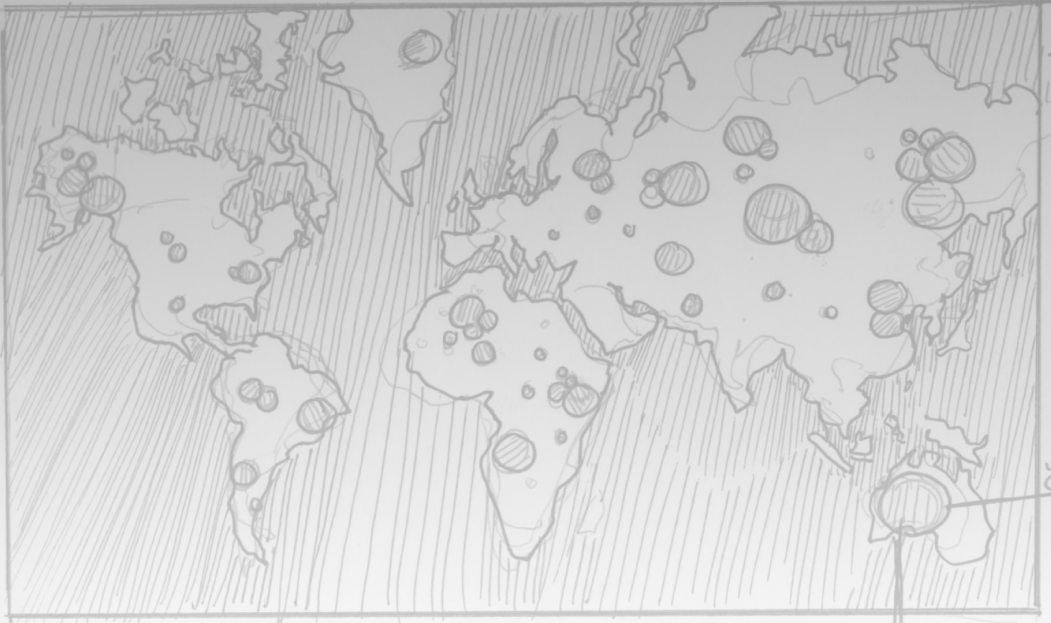
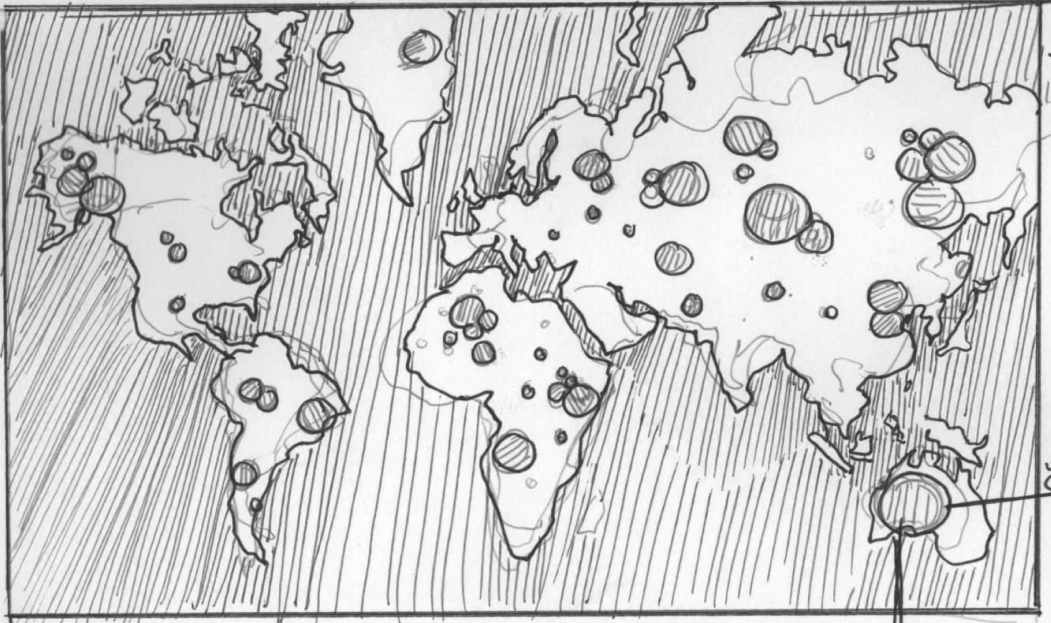
header adjust

diff --git a/src/routes/+page.svelte b/src/routes/+page.svelte
@@ -21,60 +21,60 @@
 <svelte:head>
 	<title>Molly Cook Escobar - Portfolio</title>
 </svelte:head>
-<section
-	class="header"
-	style={`background-image: url(' ${path}map_sketch.png'); background-size: cover;`}
->
-	<h1>
-		<!-- Hi <img src={Wave} alt="waving hand" class="hand-icon" />, I'm<br /><span
+<section class="header-wrap">
+	<img src="{path}map_sketch.png" class="header-bg" alt="" />
+	<div class="header-content header">
+		<h1>
+			<!-- Hi <img src={Wave} alt="waving hand" class="hand-icon" />, I'm<br /><span
 				>Molly Cook Escobar</span
 			> -->
-		Molly Cook Escobar
-	</h1>
-	<div class="intro">
-		<span>Visual Journalist and Front-End Developer committed to thoughtful storytelling.</span>
-		<span>
-			Currently based in Queens and making graphics at
-			<a class="icon" href="https://www.nytimes.com/by/molly-cook-escobar">The New York Times</a
-			>.</span
-		>
-	</div>
-	<div class="icons">
-		<div
-			role="button"
-			tabindex="0"
-			on:keypress={() => {
-				modalOpened.set(true);
-			}}
-			on:click={() => {
-				modalOpened.set(true);
-			}}
-		>
-			<div class="icon">
-				<FaEnvelope />
-			</div>
+			Molly Cook Escobar
+		</h1>
+		<div class="intro">
+			<span>Visual Journalist and Front-End Developer committed to thoughtful storytelling.</span>
+			<span>
+				Currently based in Queens and making graphics at
+				<a class="icon" href="https://www.nytimes.com/by/molly-cook-escobar">The New York Times</a
+				>.</span
+			>
 		</div>
+		<div class="icons">
+			<div
+				role="button"
+				tabindex="0"
+				on:keypress={() => {
+					modalOpened.set(true);
+				}}
+				on:click={() => {
+					modalOpened.set(true);
+				}}
+			>
+				<div class="icon">
+					<FaEnvelope />
+				</div>
+			</div>
 
-		<a
-			href="https://github.com/m0llyc00k"
-			aria-label="GitHub"
-			target="_blank"
-			rel="noopener noreferrer"
-		>
-			<div class="icon">
-				<FaGithub />
-			</div>
-		</a>
-		<a
-			href="https://www.linkedin.com/in/molly-cook-escobar/"
-			aria-label="Linkedin"
-			target="_blank"
-			rel="noopener noreferrer"
-		>
-			<div class="icon">
-				<FaLinkedin />
-			</div>
-		</a>
+			<a
+				href="https://github.com/m0llyc00k"
+				aria-label="GitHub"
+				target="_blank"
+				rel="noopener noreferrer"
+			>
+				<div class="icon">
+					<FaGithub />
+				</div>
+			</a>
+			<a
+				href="https://www.linkedin.com/in/molly-cook-escobar/"
+				aria-label="Linkedin"
+				target="_blank"
+				rel="noopener noreferrer"
+			>
+				<div class="icon">
+					<FaLinkedin />
+				</div>
+			</a>
+		</div>
 	</div>
 </section>
 <section>
@@ -190,6 +190,42 @@
 		display: flex;
 		flex-direction: column;
 		gap: 15px;
+	}
+	.header-wrap {
+		overflow: hidden;
+		position: relative;
+	}
+
+	.header-bg {
+		position: absolute;
+		left: 0;
+		top: 0;
+		width: 100%;
+		height: auto;
+	}
+
+	/* .header-content {
+		position: relative;
+		background-color: rgba(235, 235, 235, 0.8);
+		box-shadow: 0 0 50px 50px rgba(235, 235, 235, 0.25) inset;
+	} */
+	.header-content::before {
+		content: '';
+		position: absolute;
+		top: 0;
+		left: 0;
+		width: 100%;
+		height: 100%;
+		background-color: rgba(235, 235, 235, 0.8); /* Same background color as header content */
+		border-radius: 50px; /* Adjust the radius as needed */
+		z-index: -1; /* Ensure the pseudo-element is behind the content */
+		filter: blur(50px); /* Adjust the blur amount as needed */
+	}
+
+	.header-content {
+		position: relative; /* Ensure the pseudo-element is positioned relative to the header content */
+		z-index: 1; /* Ensure the header content is above the pseudo-element */
+		/* Other existing styles for .header-content */
 	}
 
 	.project-desc {
